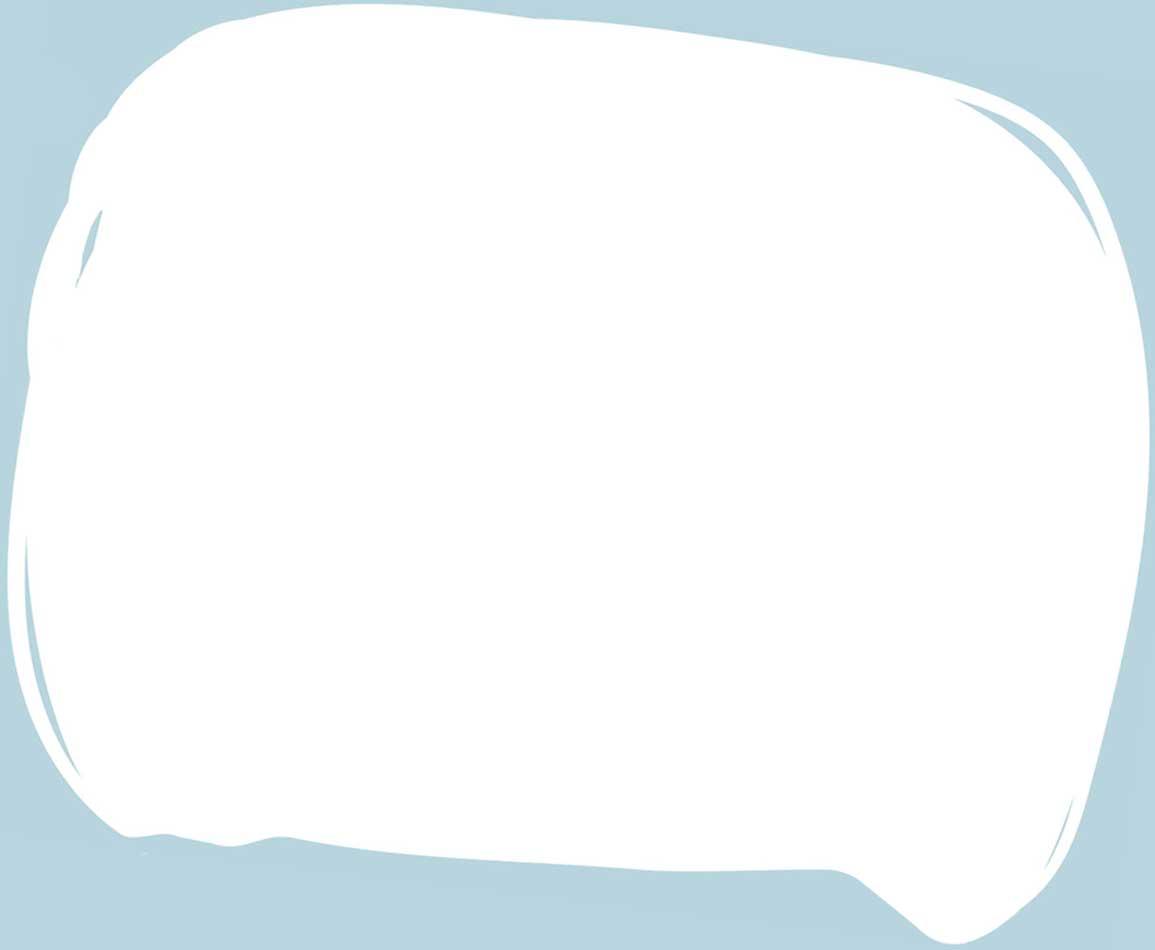
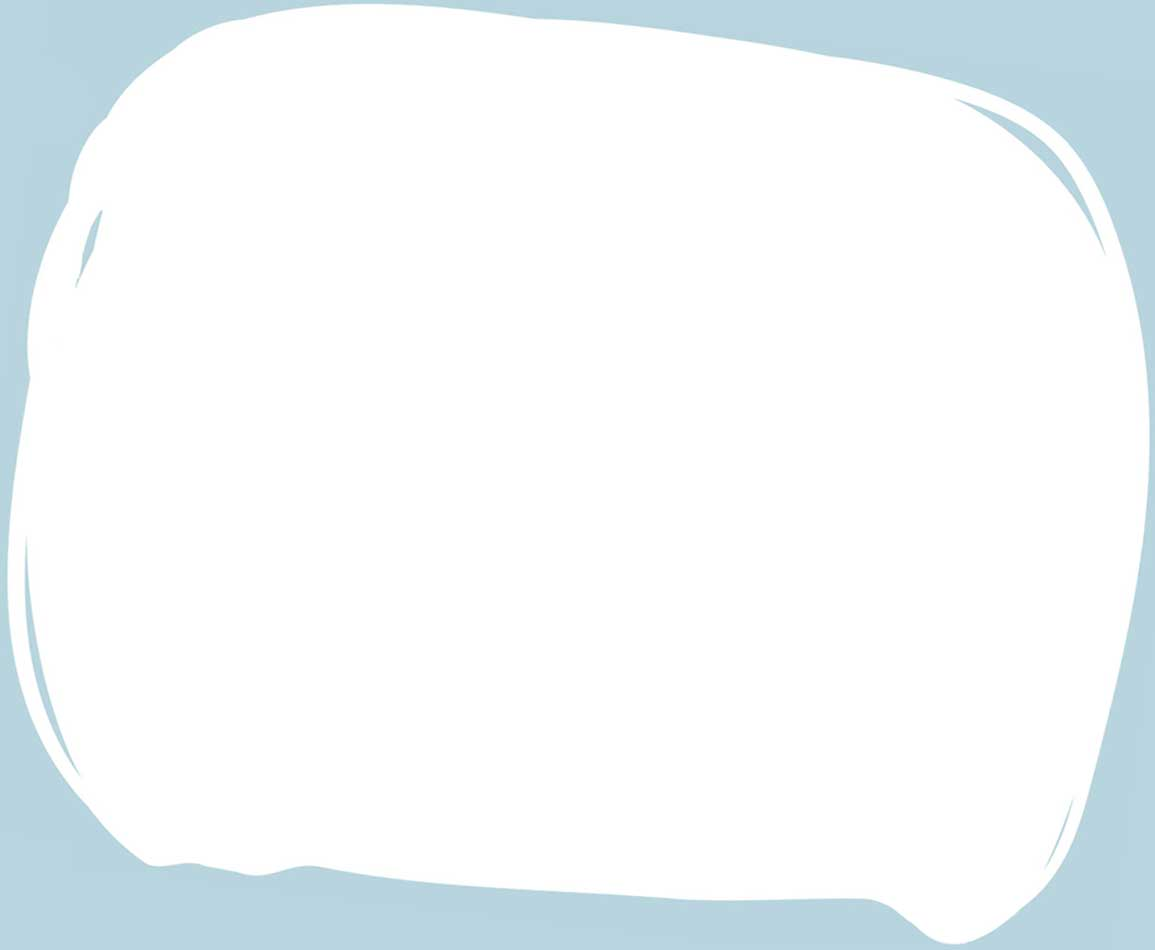
responsive background

Changed region(s): [[0.0935, 0.8547, 0.7792, 0.9463]]

diff --git a/summer-reading/new.html b/summer-reading/new.html
@@ -479,8 +479,8 @@ h1.bubblegum {
     margin: 0 auto;
 }
 .custom-container.one {
-    background: url("background-one-small.png") center center/cover;
-    padding: 60px 10px 60px;
+	background: url("background-one-small.jpg") top center/cover;
+	padding: 75px 10px 45px;
 }
 .intro-text, .intro-text-alt {
     max-width: 655px;
